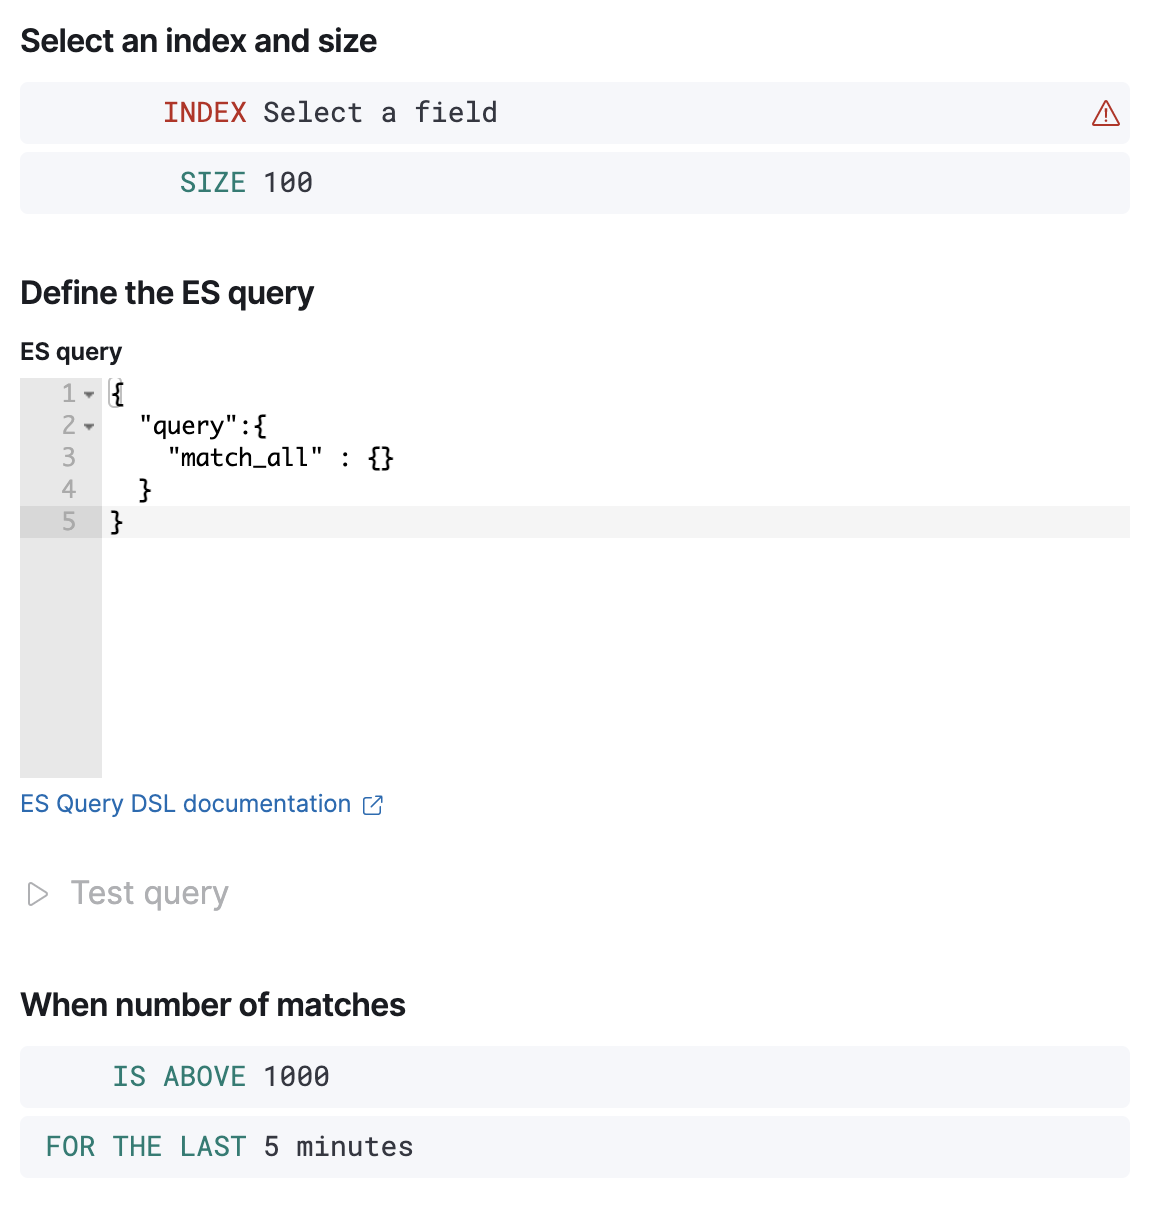
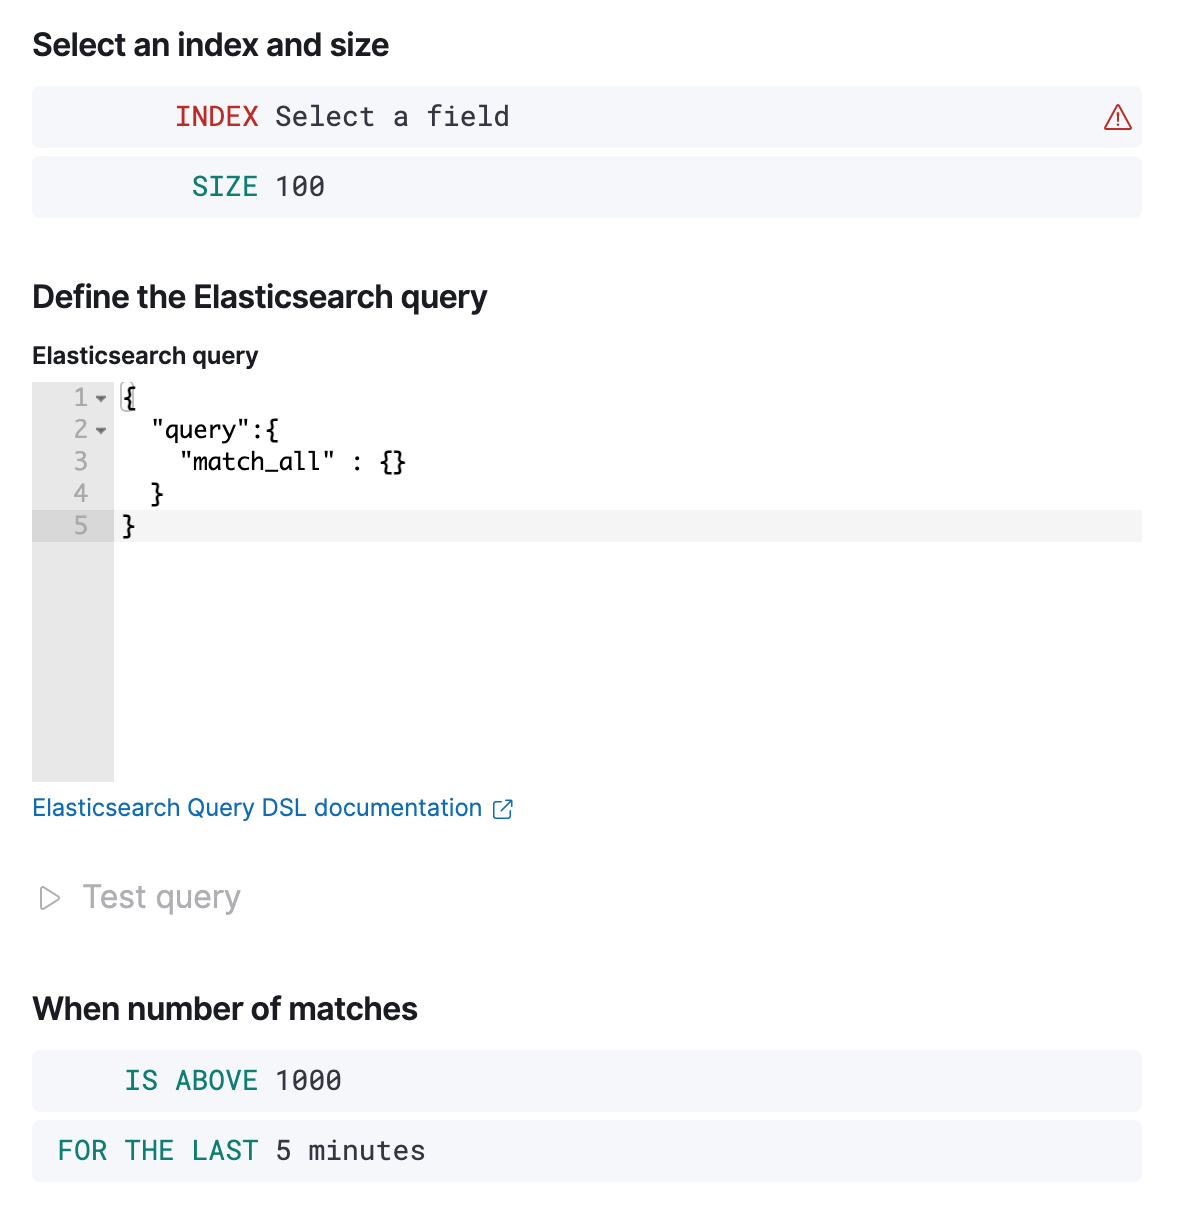
[Alerting] Renames the "ES query" alert type to "Elasticsearch query" (#93584)
Tweaks UX for 7.12

diff --git a/x-pack/plugins/stack_alerts/public/alert_types/es_query/expression.tsx b/x-pack/plugins/stack_alerts/public/alert_types/es_query/expression.tsx
@@ -270,7 +270,7 @@ export const EsQueryAlertTypeExpression: React.FunctionComponent<
         <h5>
           <FormattedMessage
             id="xpack.stackAlerts.esQuery.ui.queryPrompt"
-            defaultMessage="Define the ES query"
+            defaultMessage="Define the Elasticsearch query"
           />
         </h5>
       </EuiTitle>
@@ -281,7 +281,7 @@ export const EsQueryAlertTypeExpression: React.FunctionComponent<
         label={
           <FormattedMessage
             id="xpack.stackAlerts.esQuery.ui.queryPrompt.label"
-            defaultMessage="ES query"
+            defaultMessage="Elasticsearch query"
           />
         }
         isInvalid={errors.esQuery.length > 0}
@@ -290,7 +290,7 @@ export const EsQueryAlertTypeExpression: React.FunctionComponent<
           <EuiLink href={docLinks.links.query.queryDsl} target="_blank">
             <FormattedMessage
               id="xpack.stackAlerts.esQuery.ui.queryPrompt.help"
-              defaultMessage="ES Query DSL documentation"
+              defaultMessage="Elasticsearch Query DSL documentation"
             />
           </EuiLink>
         }
@@ -302,7 +302,7 @@ export const EsQueryAlertTypeExpression: React.FunctionComponent<
           theme="github"
           data-test-subj="queryJsonEditor"
           aria-label={i18n.translate('xpack.stackAlerts.esQuery.ui.queryEditor', {
-            defaultMessage: 'ES query editor',
+            defaultMessage: 'Elasticsearch query editor',
           })}
           value={xJson}
           onChange={(xjson: string) => {

diff --git a/x-pack/plugins/stack_alerts/public/alert_types/es_query/index.ts b/x-pack/plugins/stack_alerts/public/alert_types/es_query/index.ts
@@ -15,7 +15,7 @@ export function getAlertType(): AlertTypeModel<EsQueryAlertParams> {
   return {
     id: '.es-query',
     description: i18n.translate('xpack.stackAlerts.esQuery.ui.alertType.descriptionText', {
-      defaultMessage: 'Alert on matches against an ES query.',
+      defaultMessage: 'Alert on matches against an Elasticsearch query.',
     }),
     iconClass: 'logoElastic',
     documentationUrl: (docLinks) => docLinks.links.alerting.esQuery,
@@ -24,7 +24,7 @@ export function getAlertType(): AlertTypeModel<EsQueryAlertParams> {
     defaultActionMessage: i18n.translate(
       'xpack.stackAlerts.esQuery.ui.alertType.defaultActionMessage',
       {
-        defaultMessage: `ES query alert '\\{\\{alertName\\}\\}' is active:
+        defaultMessage: `Elasticsearch query alert '\\{\\{alertName\\}\\}' is active:
 
 - Value: \\{\\{context.value\\}\\}
 - Conditions Met: \\{\\{context.conditions\\}\\} over \\{\\{params.timeWindowSize\\}\\}\\{\\{params.timeWindowUnit\\}\\}

diff --git a/x-pack/plugins/stack_alerts/server/alert_types/es_query/alert_type.ts b/x-pack/plugins/stack_alerts/server/alert_types/es_query/alert_type.ts
@@ -30,7 +30,7 @@ export function getAlertType(
   logger: Logger
 ): AlertType<EsQueryAlertParams, EsQueryAlertState, {}, ActionContext, typeof ActionGroupId> {
   const alertTypeName = i18n.translate('xpack.stackAlerts.esQuery.alertTypeTitle', {
-    defaultMessage: 'ES query',
+    defaultMessage: 'Elasticsearch query',
   });
 
   const actionGroupName = i18n.translate('xpack.stackAlerts.esQuery.actionGroupThresholdMetTitle', {
@@ -82,7 +82,7 @@ export function getAlertType(
   const actionVariableContextQueryLabel = i18n.translate(
     'xpack.stackAlerts.esQuery.actionVariableContextQueryLabel',
     {
-      defaultMessage: 'The string representation of the ES query.',
+      defaultMessage: 'The string representation of the Elasticsearch query.',
     }
   );
 

diff --git a/x-pack/plugins/stack_alerts/server/alert_types/es_query/alert_type.test.ts b/x-pack/plugins/stack_alerts/server/alert_types/es_query/alert_type.test.ts
@@ -17,7 +17,7 @@ describe('alertType', () => {
 
   it('alert type creation structure is the expected value', async () => {
     expect(alertType.id).toBe('.es-query');
-    expect(alertType.name).toBe('ES query');
+    expect(alertType.name).toBe('Elasticsearch query');
     expect(alertType.actionGroups).toEqual([{ id: 'query matched', name: 'Query matched' }]);
 
     expect(alertType.actionVariables).toMatchInlineSnapshot(`
@@ -54,7 +54,7 @@ describe('alertType', () => {
             "name": "index",
           },
           Object {
-            "description": "The string representation of the ES query.",
+            "description": "The string representation of the Elasticsearch query.",
             "name": "esQuery",
           },
           Object {

diff --git a/x-pack/plugins/triggers_actions_ui/public/application/sections/alert_form/solution_filter.tsx b/x-pack/plugins/triggers_actions_ui/public/application/sections/alert_form/solution_filter.tsx
@@ -44,7 +44,7 @@ export const SolutionFilter: React.FunctionComponent<SolutionFilterProps> = ({
           >
             <FormattedMessage
               id="xpack.triggersActionsUI.sections.alertForm.solutionFilterLabel"
-              defaultMessage="Filter by solution"
+              defaultMessage="Filter by use case"
             />
           </EuiFilterButton>
         }

diff --git a/x-pack/plugins/stack_alerts/public/alert_types/es_query/validation.ts b/x-pack/plugins/stack_alerts/public/alert_types/es_query/validation.ts
@@ -48,7 +48,7 @@ export const validateExpression = (alertParams: EsQueryAlertParams): ValidationR
   if (!esQuery) {
     errors.esQuery.push(
       i18n.translate('xpack.stackAlerts.esQuery.ui.validation.error.requiredQueryText', {
-        defaultMessage: 'ES query is required.',
+        defaultMessage: 'Elasticsearch query is required.',
       })
     );
   } else {

diff --git a/x-pack/plugins/stack_alerts/server/plugin.test.ts b/x-pack/plugins/stack_alerts/server/plugin.test.ts
@@ -83,7 +83,7 @@ describe('AlertingBuiltins Plugin', () => {
             },
           ],
           "id": ".es-query",
-          "name": "ES query",
+          "name": "Elasticsearch query",
         }
       `);
 

diff --git a/x-pack/plugins/stack_alerts/server/alert_types/index_threshold/README.md b/x-pack/plugins/stack_alerts/server/alert_types/index_threshold/README.md
@@ -2,7 +2,7 @@
 
 directory in plugin: `server/alert_types/index_threshold`
 
-The index threshold alert type is designed to run an ES query over indices,
+The index threshold alert type is designed to run an Elasticsearch query over indices,
 aggregating field values from documents, comparing them to threshold values,
 and scheduling actions to run when the thresholds are met.
 
@@ -91,7 +91,7 @@ scheduled against them independently).
 
 The time window is set to 5 seconds.  That means, every time the
 alert runs it's queries (every second, in the example above), it will run it's
-ES query over the last 5 seconds.  Thus, the queries, over time, will overlap.
+Elasticsearch query over the last 5 seconds.  Thus, the queries, over time, will overlap.
 Sometimes that's what you want.  Other times, maybe you just want to do 
 sampling, running an alert every hour, with a 5 minute window.  Up to the you!
 
